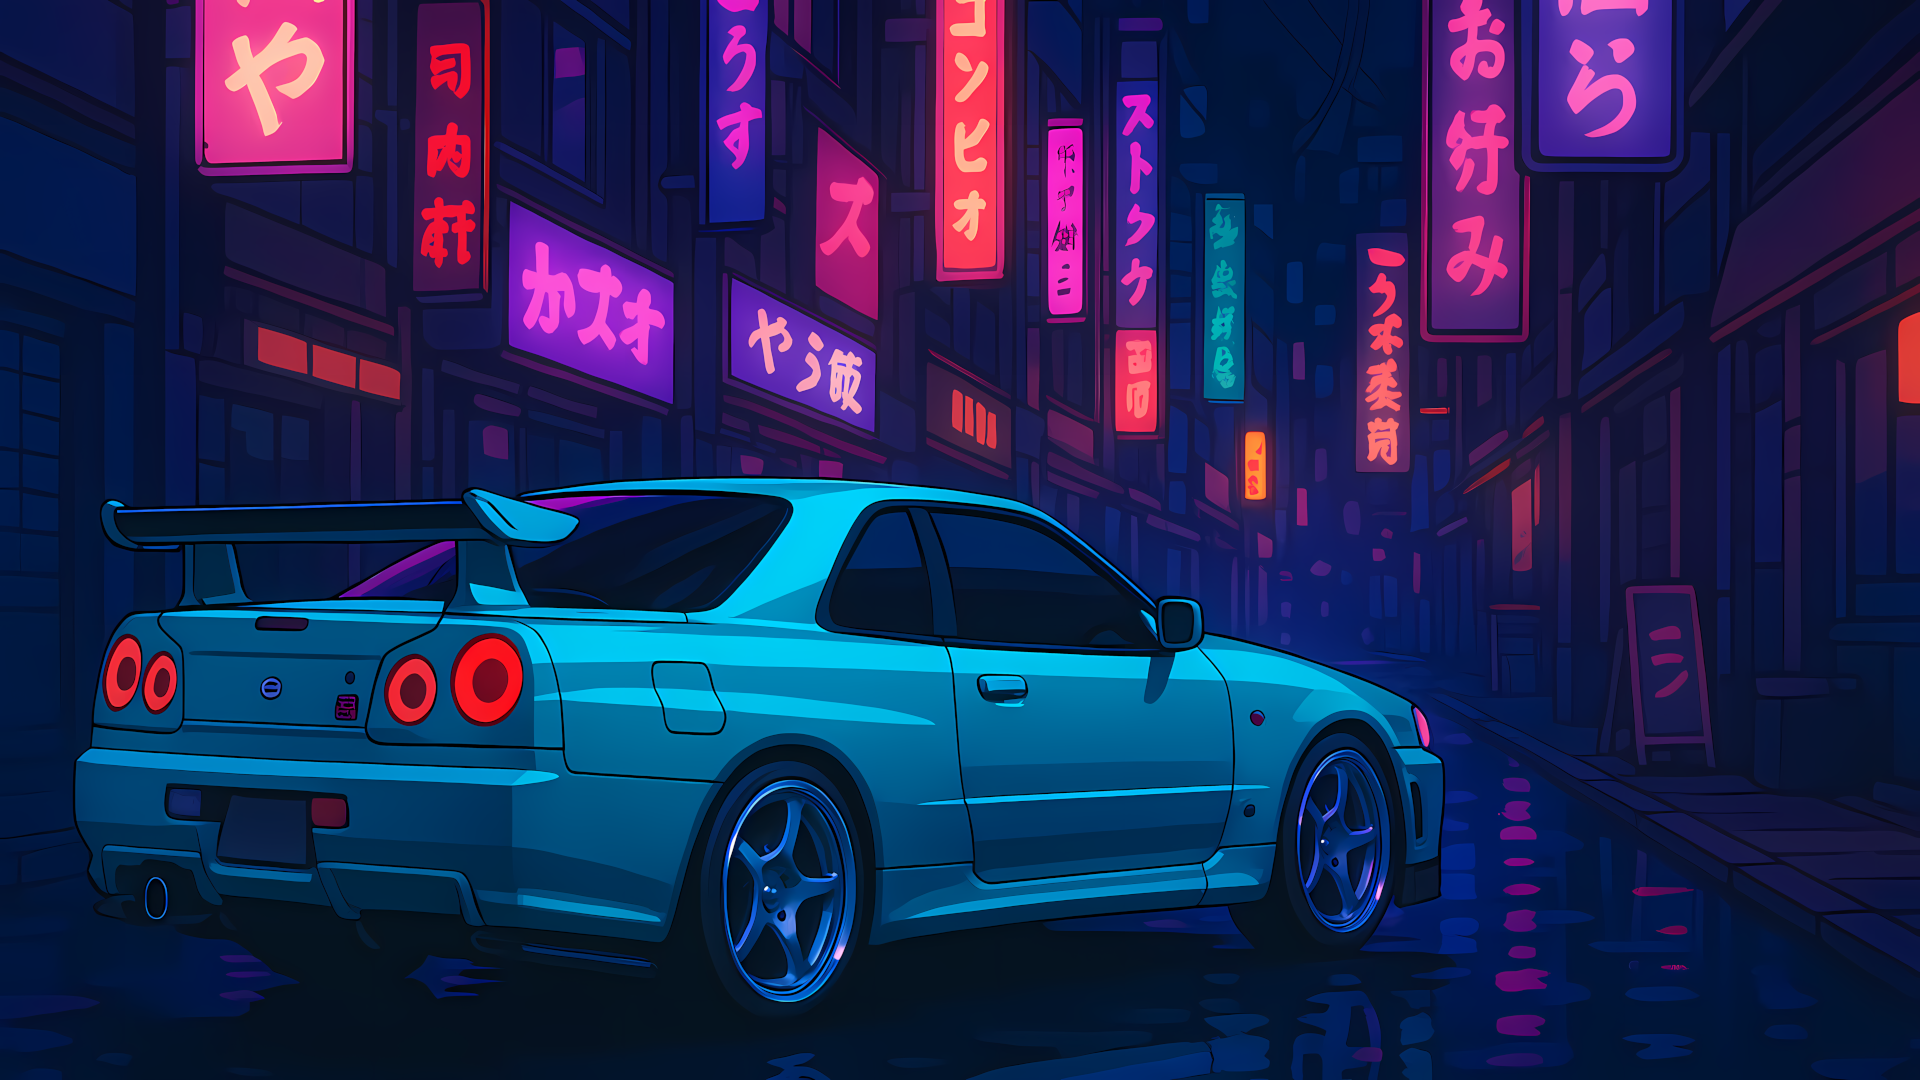
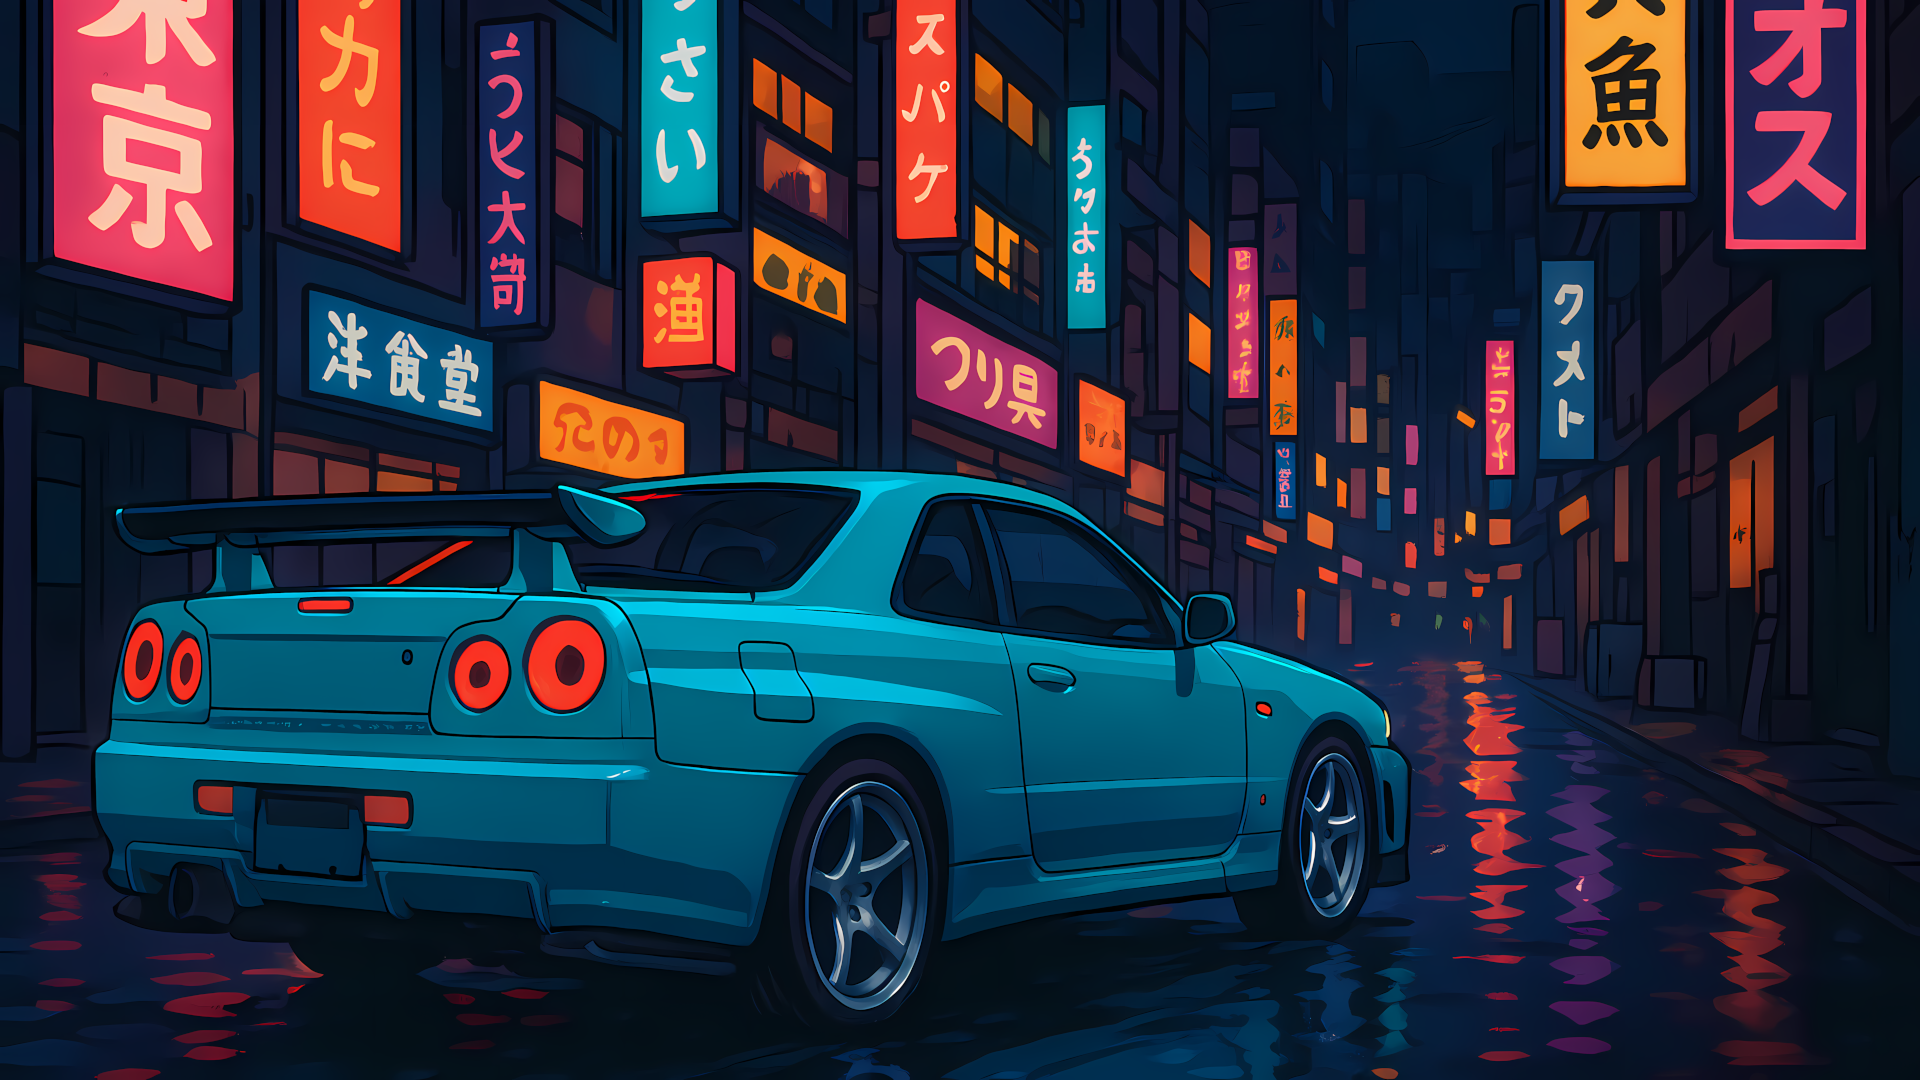
Enviando tudo.

diff --git a/scripts/autostart/autostart.py b/scripts/autostart/autostart.py
@@ -2,6 +2,10 @@
 from datetime import datetime
 import subprocess
 import time
+import os
+
+
+home_dir = os.environ.get("HOME")
 
 
 def disable_input_devices():
@@ -49,36 +53,65 @@ def calculate_seconds():
     time_seconds = [3600, 60, 1]
     seconds = sum([t * s for t, s in zip(time_values, time_seconds)])
 
-    if 0 <= seconds < 14400:
+    if seconds >= 18000 and seconds < 25200:
+        temp = 4000
+        wp_command = f"""
+        bash '{home_dir}/scripts/autostart/wallpapers/aurora.sh'
+        """
+
+    elif seconds >= 25200 and seconds < 39600:
         temp = 4500
-    elif 14400 <= seconds < 28800:
-        temp = 5000
-    elif 28800 <= seconds < 57600:
+        wp_command = f"""
+        bash '{home_dir}/scripts/autostart/wallpapers/morning.sh'
+        """
+
+    elif seconds >= 39600 and seconds < 57600:
         temp = 5500
-    elif 57600 <= seconds < 72000:
-        temp = 5000
-    elif 72000 <= seconds < 72000:
+        wp_command = f"""
+        bash '{home_dir}/scripts/autostart/wallpapers/afternoon.sh'
+        """
+
+    elif seconds >= 57600 and seconds < 64800:
         temp = 4500
+        wp_command = f"bash '{home_dir}/scripts/autostart/wallpapers/dusk.sh'"
+
+    elif seconds >= 64800 and seconds < 79200:
+        temp = 4000
+        wp_command = f"bash '{home_dir}/scripts/autostart/wallpapers/night.sh'"
+
+    elif (
+            seconds >= 79200 and seconds <= 86400
+        ) or (
+            seconds >= 1 and seconds < 18000):
+        temp = 3500
+        wp_command = f"bash '{home_dir}/scripts/autostart/wallpapers/dawn.sh'"
+
     else:
         temp = 4000
 
+    subprocess.run(
+        wp_command,
+        shell=True,
+        capture_output=False,
+        text=True
+    )
+
     command = f"redshift -x && redshift -P -O {temp}"
-    result = subprocess.run(
+
+    subprocess.run(
         command,
         shell=True,
         capture_output=True,
         text=True
     )
 
-    print("Saída:", result.stdout)
-    print("Erros:", result.stderr)
-
     time.sleep(2)
 
     print("Ambiente configurado com sucesso!")
-
     print("Reativando teclado e mouse...")
+
     enable_input_devices(keyboard_id, mouse_id)
+
 
 if __name__ == "__main__":
     calculate_seconds()
